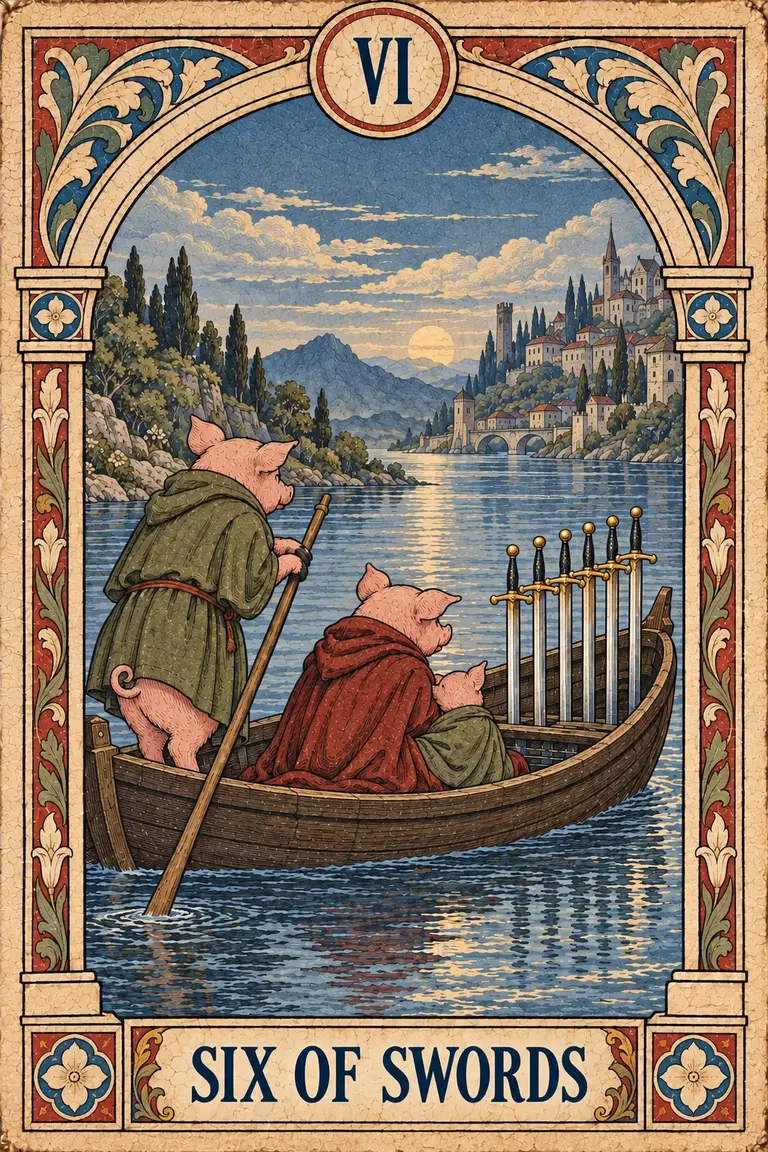
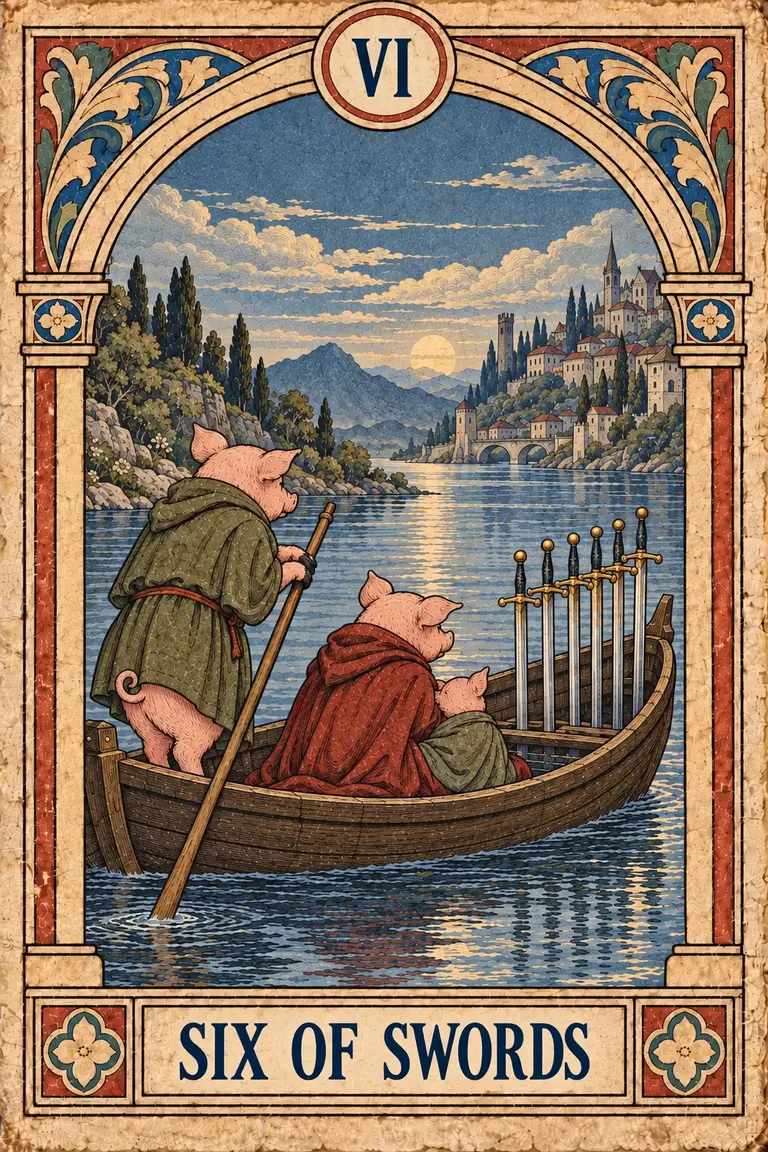
Unify aged Swords card frames

diff --git a/assets/js/tarot.js b/assets/js/tarot.js
@@ -100,17 +100,20 @@ export function createTarotCabinet() {
   const readingNotes = document.querySelector('#readingNotes');
   const readingJournal = document.querySelector('#readingJournal');
   const practiceStatus = document.querySelector('#practiceStatus');
-  let group = 'all';
+  // Print-art review is intentionally staged. Keep the cabinet focused on the
+  // batch that has actually been restored instead of mixing approved originals
+  // with the still-quarantined Queen-frame composites.
+  let group = 'major';
   let spread = 'one';
   let drawing = false;
   const revealed = new Set();
-  const groups = [['all','全部 78'],['major','大阿尔卡那'],...SUITS.map(([suit,cn]) => [suit.toLowerCase(),cn])];
+  const groups = [['major','第一批 · 大阿尔卡那 22 张']];
 
   tabs.innerHTML = groups.map(([id,label],i) => `<button class="tarot-tab ${i ? '' : 'active'}" data-group="${id}">${label}</button>`).join('');
   function render() {
     const visible = cards.filter(card => group === 'all' || card.group === group);
     grid.innerHTML = visible.map(card => `<button class="tarot-card ${card.artwork ? 'is-collected' : 'is-pending'} ${revealed.has(card.id) ? 'is-revealed' : ''}" data-id="${escape(card.id)}" type="button" aria-label="${revealed.has(card.id) ? `查看${escape(card.name)}详情` : `翻开${escape(card.name)}`}">
-      <span class="tarot-art"><span class="tarot-card-inner"><span class="tarot-face tarot-back"><img src="assets/tarot/card-back.webp?v=2651" alt="" width="320" height="480" loading="lazy" decoding="async"></span><span class="tarot-face tarot-front">${card.artwork ? `<img src="assets/tarot/${escape(card.artwork)}?v=swords-redraw-80037a5" alt="${escape(card.name)}牌面" width="320" height="480" loading="lazy" decoding="async" fetchpriority="low">` : `<span class="tarot-placeholder"><b>${escape(card.number)}</b><i>VESPERION</i><span>馆藏空位</span></span>`}</span></span></span>
+      <span class="tarot-art"><span class="tarot-card-inner"><span class="tarot-face tarot-back"><img src="assets/tarot/card-back.webp?v=2651" alt="" width="320" height="480" loading="lazy" decoding="async"></span><span class="tarot-face tarot-front">${card.artwork ? `<img src="assets/tarot/${escape(card.artwork)}?v=swords-uniform-aged-20261019" alt="${escape(card.name)}牌面" width="320" height="480" loading="lazy" decoding="async" fetchpriority="low">` : `<span class="tarot-placeholder"><b>${escape(card.number)}</b><i>VESPERION</i><span>馆藏空位</span></span>`}</span></span></span>
       <span class="tarot-meta"><small>${card.group === 'major' ? 'MAJOR ARCANA' : card.group.toUpperCase()}</small><b>${escape(card.name)}</b><em>${escape(card.title)}</em></span>
     </button>`).join('');
     const collected = visible.filter(card => card.artwork).length;
@@ -119,7 +122,7 @@ export function createTarotCabinet() {
   function open(id) {
     const card = cards.find(item => item.id === id);
     if (!card?.artwork) return;
-    content.innerHTML = `<div class="tarot-detail"><figure class="tarot-detail-art"><img src="assets/tarot/${escape(card.artwork)}?v=swords-redraw-80037a5" alt="${escape(card.name)}牌面" width="768" height="1152" decoding="async"></figure><div><p class="eyebrow">${escape(card.number)} · ${card.group === 'major' ? 'MAJOR ARCANA' : card.group.toUpperCase()}</p><h2>${escape(card.name)}</h2><p class="tarot-english">${escape(card.title)}</p><p>${escape(card.meaning)}</p></div></div>`;
+    content.innerHTML = `<div class="tarot-detail"><figure class="tarot-detail-art"><img src="assets/tarot/${escape(card.artwork)}?v=restored-originals-batch-major" alt="${escape(card.name)}牌面" width="768" height="1152" decoding="async"></figure><div><p class="eyebrow">${escape(card.number)} · ${card.group === 'major' ? 'MAJOR ARCANA' : card.group.toUpperCase()}</p><h2>${escape(card.name)}</h2><p class="tarot-english">${escape(card.title)}</p><p>${escape(card.meaning)}</p></div></div>`;
     dialog.showModal();
   }
   tabs.addEventListener('click', event => {
@@ -156,7 +159,7 @@ export function createTarotCabinet() {
     return Math.floor(Math.random() * max);
   }
   function drawCards(count) {
-    const pool = cards.filter(card => card.artwork);
+    const pool = cards.filter(card => card.group === 'major' && card.artwork);
     const result = [];
     while (result.length < count && pool.length) result.push(pool.splice(randomIndex(pool.length), 1)[0]);
     return result;
@@ -184,7 +187,7 @@ export function createTarotCabinet() {
       readingTable.innerHTML = selected.map((card, index) => `<article class="draw-slot" data-draw-index="${index}">
         <p class="draw-position">${escape(positions[index])}</p>
         <button class="draw-card" type="button" aria-label="翻开${escape(positions[index])}牌">
-          <span class="draw-card-inner"><span class="draw-face draw-back" aria-hidden="true"><img src="assets/tarot/card-back.webp?v=2651" alt="" width="320" height="480" decoding="async"></span><span class="draw-face draw-front"><img src="assets/tarot/${escape(card.artwork)}?v=swords-redraw-80037a5" alt="" width="320" height="480" decoding="async"></span></span>
+          <span class="draw-card-inner"><span class="draw-face draw-back" aria-hidden="true"><img src="assets/tarot/card-back.webp?v=2651" alt="" width="320" height="480" decoding="async"></span><span class="draw-face draw-front"><img src="assets/tarot/${escape(card.artwork)}?v=swords-uniform-aged-20261019" alt="" width="320" height="480" decoding="async"></span></span>
         </button>
         <span class="draw-hint">点击翻牌</span>
         <p class="draw-meaning"><b>${escape(card.name)} · ${escape(card.title)}</b>${escape(practiceMeaning(card))}</p>

diff --git a/assets/js/main.js b/assets/js/main.js
@@ -1,6 +1,6 @@
 import { createArchive, loadSpecimens } from './archive.js?v=20261015-specimens-51';
 import { initTheme } from './theme.js?v=20261011-safari-1';
-import { createTarotCabinet } from './tarot.js?v=20261019-swords-redraw';
+import { createTarotCabinet } from './tarot.js?v=20261019-swords-uniform-aged';
 
 const QUOTES = ['“可猫可猪；若必须二选一，仍然是猪。”', '“爸爸爸爸——”', '“咪————”', '“今天已经是明晚了。”', '“蜗牛胜出，芝士沉默。”', '“本猪合格，可以继续抱。”', '“一只宇宙无敌第一可爱萌猪诞生惹。”', '“这不是烧钱，这是文化传播经费。”'];
 

diff --git a/index.html b/index.html
@@ -150,7 +150,7 @@
     <div id="tarotDialogContent"></div>
   </dialog>
   <div class="toast" id="toast" role="status"></div>
-  <script type="module" src="assets/js/main.js?v=20261019-swords-redraw"></script>
+  <script type="module" src="assets/js/main.js?v=20261019-swords-uniform-aged"></script>
 </body>
 </html>
 
